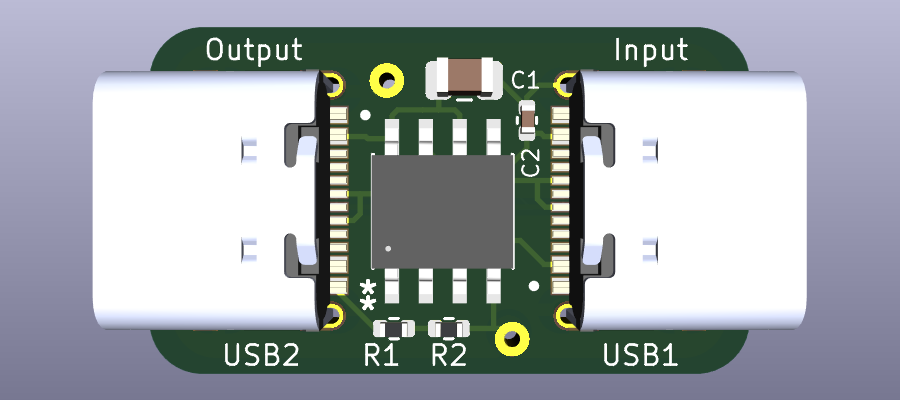
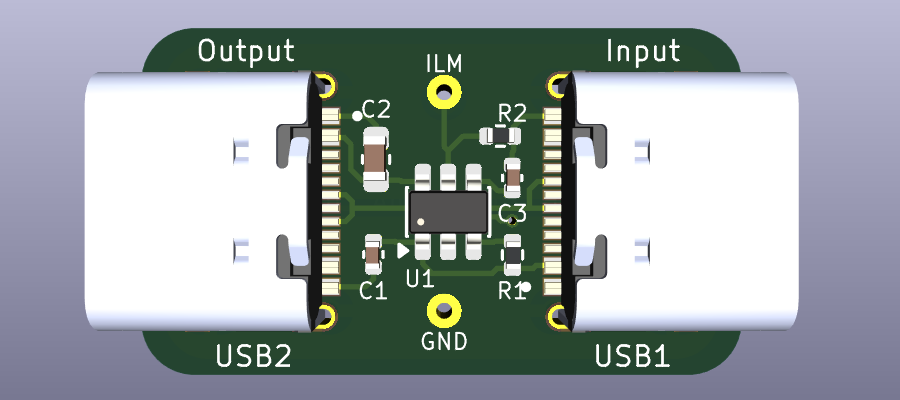
Update documentation for SGM version

diff --git a/README.md b/README.md
@@ -1,14 +1,12 @@
 # Beyondex Limiter
 
-This is a simple USB 2.0 Type C current limiter built around the [MIC2544-1YM](resources/mic2544.pdf) current limiting IC. The default current limit is set at 200mA, but the resistors can be swapped out according to the data sheet for any limit bwteen 100mA to 1.5A.
+This is a simple USB 2.0 Type C current limiter built around the [SGM2523](resources/SGM2523.pdf) eFuse IC. The default current limit is set at 100mA, but the resistor can be swapped out according to the data sheet for any limit bwteen 100mA to 1.6A.
 
 Resistor configurations:
 
-* 1k + 150 = 200mA limit
-* 1.4k + 133 = 150mA limit
-* 2k + 300 = 100mA limit
+* 10k = 100mA limit, with ~0.3uS fast blow at 200mA
 
-The design also has 2 through holes so that it can be hand-modded to a different current limit if necessary. Simply de-solder the 2 resistors and solder a new resistance diagonally across the board.
+The design also has 2 through holes so that it can be hand-modded to a different current limit if necessary. Simply de-solder R2 and solder a new resistance between ILM and GND.
 
 The left port is for the end device and the right port is to connect upstream.
 
@@ -21,9 +19,9 @@ The back contains the specs and additional input/output labels.
 ## How to Order
 
 1. Go to the [latest release](https://github.com/KibbieKatt/BeyondexLimiter/releases)
-2. Download (choose 100mA, 150mA, or 200mA):
-    * `BeyondexLimiter_200mA.zip` - not the Source code!
-    * `BeyondexLimiter_200mA_bom.csv`
+2. Download:
+    * `BeyondexLimiter_100mA.zip` - not the Source code!
+    * `BeyondexLimiter_100mA_bom.csv`
     * `BeyondexLimiter_positions.csv`
 3. Upload the zip file to JLCPCB's quote page.
 4. Verify that board image is shown and size is auto populated.